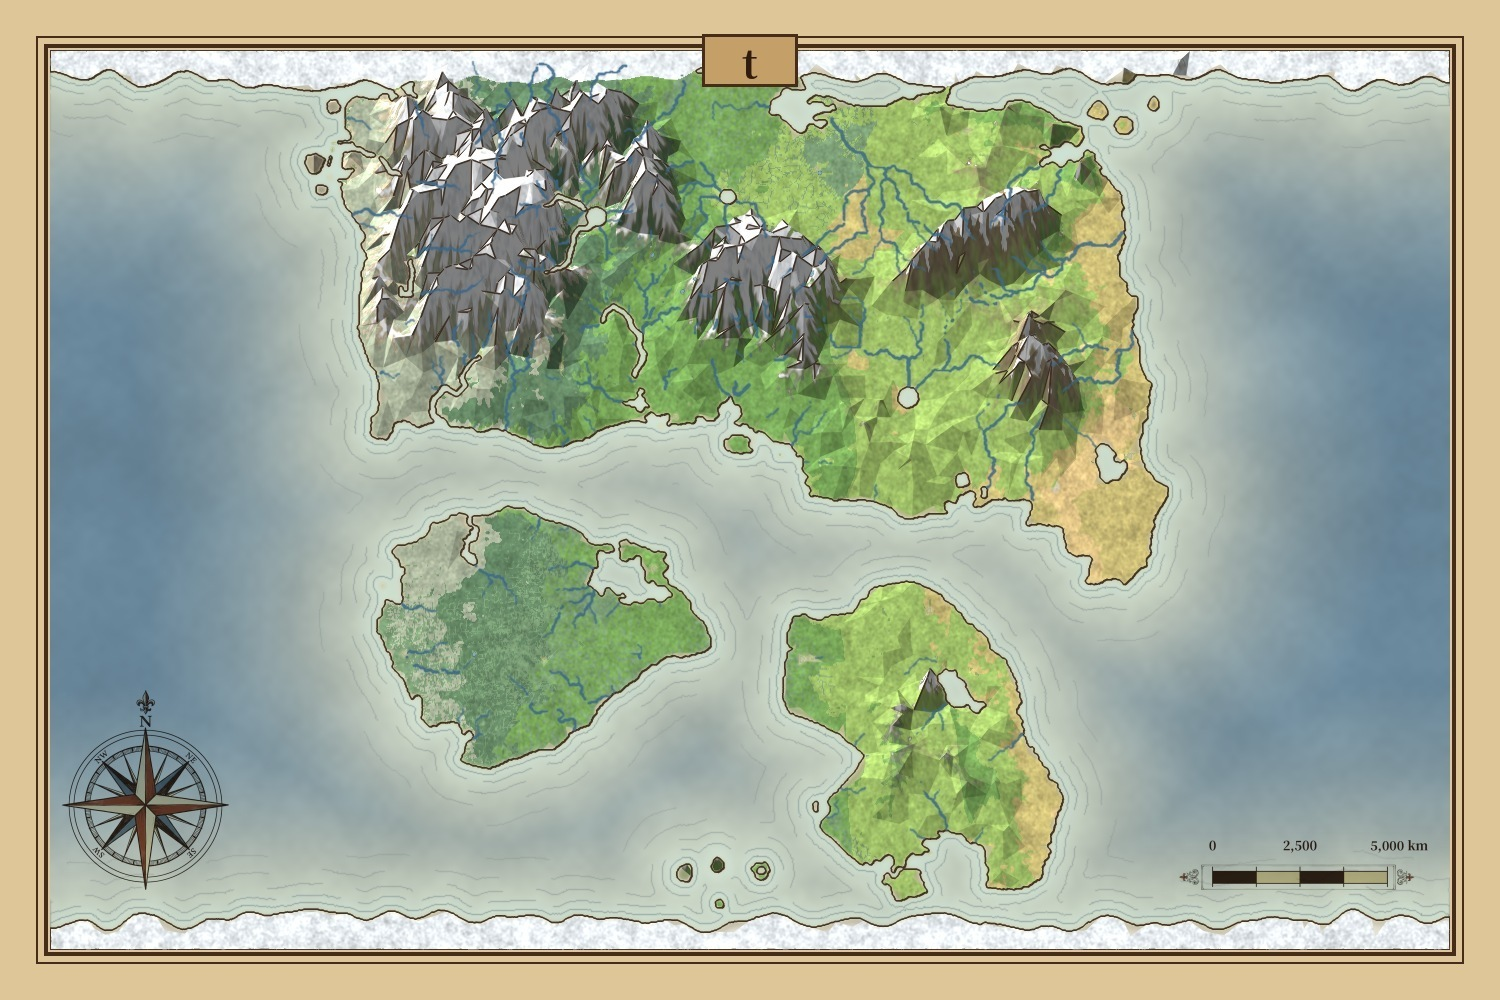
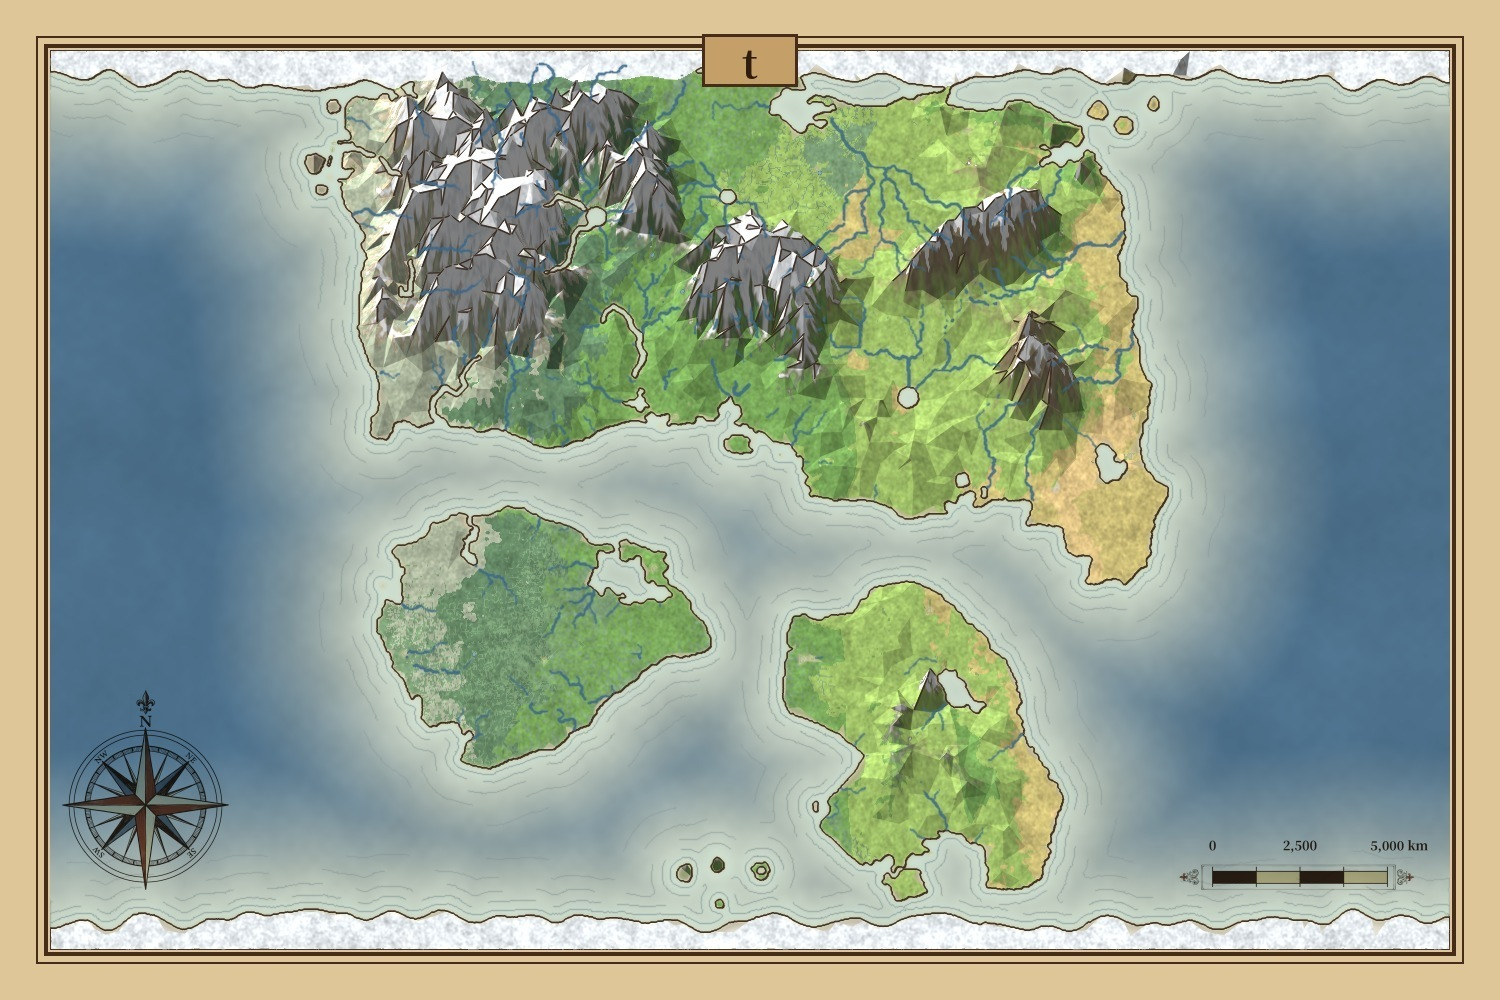
海の深さの色を濃くする
Claude-Session: https://claude.ai/code/session_01NNF75WtqSrNc5QxPaYtfZJ

Changed region(s): [[0.736, 0.155, 0.9813, 0.837], [0.0307, 0.155, 0.276, 0.868], [0.368, 0.744, 0.4907, 0.837]]

diff --git a/docs/apps/fantasy-war/mapstyle49.html b/docs/apps/fantasy-war/mapstyle49.html
@@ -2,11 +2,11 @@
 <style>body{font-family:sans-serif;background:#f4ecd8;color:#2b2418;margin:0;padding:16px;line-height:1.7}h1{font-size:1.3em}h2{font-size:1.1em;margin-top:1.3em}img{max-width:100%;border-radius:6px}</style></head><body>
 <h1>海の深さの色(試作・11-20)</h1>
 <p><b>概要</b>: 海を、岸の近くは明るい青灰、沖へ行くほど濃い青にしました。岸の浅瀬(明るい青緑)と波線はそのままで、その沖に深い色が広がります。方位記号・縮尺・川も入れた最新の絵です。</p>
-<h2>拡大(左=前、右=海の深さの色あり)</h2><img src="mapstyle/gv/lp49_zoom.jpg"><small class="eid" style="display:block;font-size:.85em;font-weight:bold;color:#7a2e1e">絵番号 E001</small>
+<h2>拡大(左=最初の薄い版、右=濃くした今回)</h2><img src="mapstyle/gv/lp49_zoom.jpg"><small class="eid" style="display:block;font-size:.85em;font-weight:bold;color:#7a2e1e">絵番号 E001</small>
 <h2>全体(5世界)</h2><img src="mapstyle/gv/lp49_pwg7.jpg"><small class="eid" style="display:block;font-size:.85em;font-weight:bold;color:#7a2e1e">絵番号 E002</small><br><img src="mapstyle/gv/lp49_pwg5.jpg"><small class="eid" style="display:block;font-size:.85em;font-weight:bold;color:#7a2e1e">絵番号 E003</small><br><img src="mapstyle/gv/lp49_pwg16.jpg"><small class="eid" style="display:block;font-size:.85em;font-weight:bold;color:#7a2e1e">絵番号 E004</small><br><img src="mapstyle/gv/lp49_pwg4.jpg"><small class="eid" style="display:block;font-size:.85em;font-weight:bold;color:#7a2e1e">絵番号 E005</small><br><img src="mapstyle/gv/lp49_pwg1.jpg"><small class="eid" style="display:block;font-size:.85em;font-weight:bold;color:#7a2e1e">絵番号 E006</small>
 <h2>やったこと</h2>
 <ol><li>最初は、世界データの「海の深さ」をそのまま使った。すると、世界の正方形の外側(穴埋め部分)だけ極端に濃くなり、境目が縦の線として見えたので、やめた。</li>
-<li>いまは「岸からの距離」だけで決める。約230ピクセル沖で最も濃く、なめらかにつなぐ。色は深いほど青(RGB 86,122,150)で、濃さ約8割。</li></ol>
+<li>いまは「岸からの距離」だけで決める。なめらかにつなぐ。色は深いほど青(RGB 72,110,140)で、濃さ約95%。約170ピクセル沖で最も濃い。(最初は86,122,150・濃さ約8割・約230ピクセルだったが、ご指摘『全体的に薄くなり過ぎ』(11-20 21:49)で濃く・早くした。)</li></ol>
 <h2>目で見た評価(世界7と16)</h2>
 <ul><li>岸は明るく、沖は青く、地図らしい「海の奥行き」が出た。</li>
 <li>左右の端の沖は特に濃く、陸の周りは明るい帯になる。</li>

diff --git a/docs/apps/sekai-hex/design/STATE.md b/docs/apps/sekai-hex/design/STATE.md
@@ -102,7 +102,7 @@
 - 【試作 11-20 ユーザー指示 方位記号はGeminiに書かせよう】注文文→Geminiの絵(白背景)→add_compass.pyで左下に乗算(mapstyle47、200px)。限界: NE等の文字が入った・左下固定・目視のみ・3D未反映。縮尺は PWGの1マスが何kmか未確認のため未着手(嘘の距離は描かない)。
 - 【確定 11-20 ユーザー決定】地図全体は地球と同じ大きさ。地球の縮尺をそのまま使う。
 - 【確定 11-20 ユーザー決定(続き)】縮尺は「普通の地球の地図の縮尺」でよい=地図の横幅が地球一周(1400px=40,075km、1px≒28.6km)。右下の縮尺(5000km=約175px)はこの読みで確定。
-- 【試作 11-20 海の深さの色】岸からの距離(約230pxで最濃・濃さ約8割・色86,122,150)で浅い=明るい青灰、沖=濃い青(illus.py FM_DEPTH=1、mapstyle49)。データの深さは穴埋め部分との境目が出るため不使用。限界: 目視のみ・実際の海底の深さではない・世界16で縮尺が陸に接する・3D未反映。
+- 【試作 11-20 海の深さの色】岸からの距離(約170pxで最濃・濃さ約95%・色72,110,140。最初の約8割は薄すぎとのご指摘で濃くした)で浅い=明るい青灰、沖=濃い青(illus.py FM_DEPTH=1、mapstyle49)。データの深さは穴埋め部分との境目が出るため不使用。限界: 目視のみ・実際の海底の深さではない・世界16で縮尺が陸に接する・3D未反映。
 - 【試作 11-20 縮尺】上の確定を「地図の横幅1400px=地球一周40,075km(1px≒28.6km)」と読み、5000kmの棒を右下に描いた(mapstyle48。飾りはGemini、棒と数字は add_scale2.py で正確に描き直し)。限界: 読みは私の解釈・上下に伸びた図で縮尺は赤道付近の横方向のみ・目視のみ・3D未反映。
 ---
 ## カード7 見せ方のコンセプト【確定(方向)】

diff --git a/docs/apps/sekai-hex/design/cards/c06f.md b/docs/apps/sekai-hex/design/cards/c06f.md
@@ -12,5 +12,5 @@
 - 【試作 11-20 ユーザー指示 方位記号はGeminiに書かせよう】注文文→Geminiの絵(白背景)→add_compass.pyで左下に乗算(mapstyle47、200px)。限界: NE等の文字が入った・左下固定・目視のみ・3D未反映。縮尺は PWGの1マスが何kmか未確認のため未着手(嘘の距離は描かない)。
 - 【確定 11-20 ユーザー決定】地図全体は地球と同じ大きさ。地球の縮尺をそのまま使う。
 - 【確定 11-20 ユーザー決定(続き)】縮尺は「普通の地球の地図の縮尺」でよい=地図の横幅が地球一周(1400px=40,075km、1px≒28.6km)。右下の縮尺(5000km=約175px)はこの読みで確定。
-- 【試作 11-20 海の深さの色】岸からの距離(約230pxで最濃・濃さ約8割・色86,122,150)で浅い=明るい青灰、沖=濃い青(illus.py FM_DEPTH=1、mapstyle49)。データの深さは穴埋め部分との境目が出るため不使用。限界: 目視のみ・実際の海底の深さではない・世界16で縮尺が陸に接する・3D未反映。
+- 【試作 11-20 海の深さの色】岸からの距離(約170pxで最濃・濃さ約95%・色72,110,140。最初の約8割は薄すぎとのご指摘で濃くした)で浅い=明るい青灰、沖=濃い青(illus.py FM_DEPTH=1、mapstyle49)。データの深さは穴埋め部分との境目が出るため不使用。限界: 目視のみ・実際の海底の深さではない・世界16で縮尺が陸に接する・3D未反映。
 - 【試作 11-20 縮尺】上の確定を「地図の横幅1400px=地球一周40,075km(1px≒28.6km)」と読み、5000kmの棒を右下に描いた(mapstyle48。飾りはGemini、棒と数字は add_scale2.py で正確に描き直し)。限界: 読みは私の解釈・上下に伸びた図で縮尺は赤道付近の横方向のみ・目視のみ・3D未反映。
